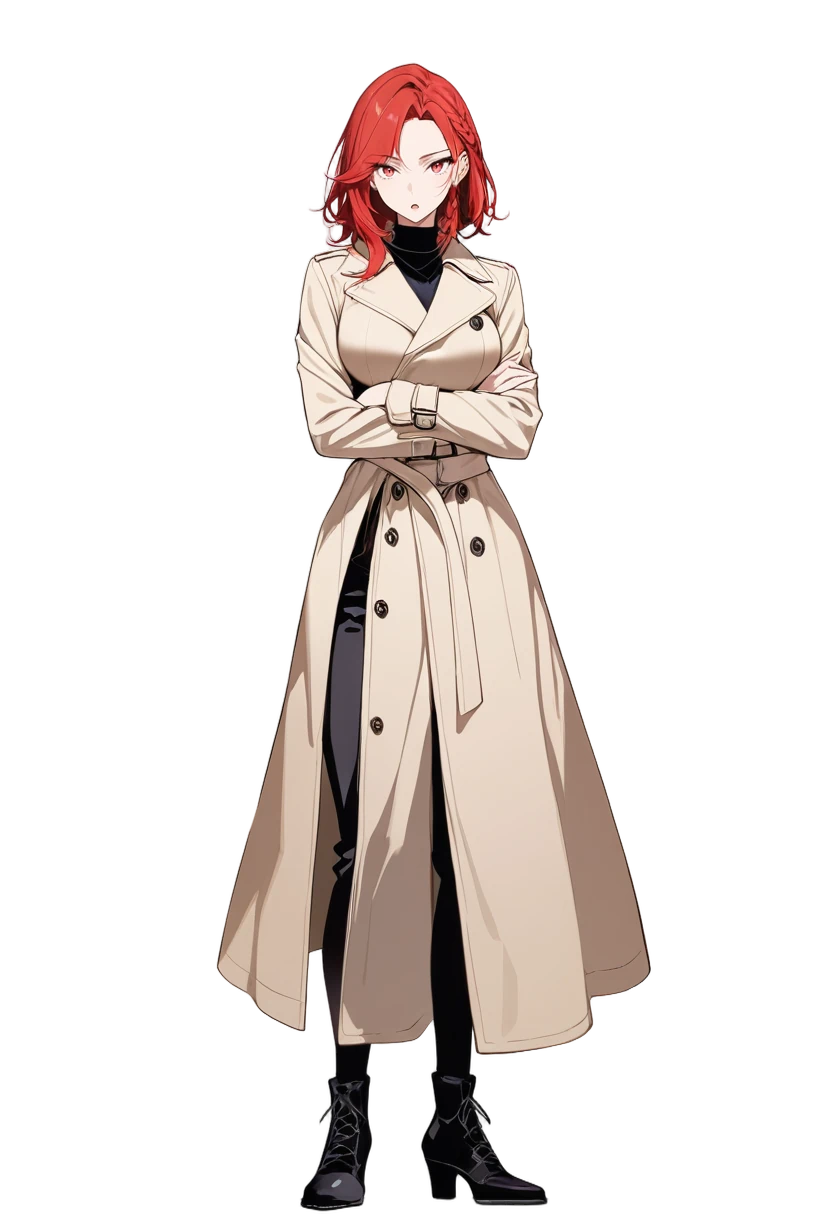
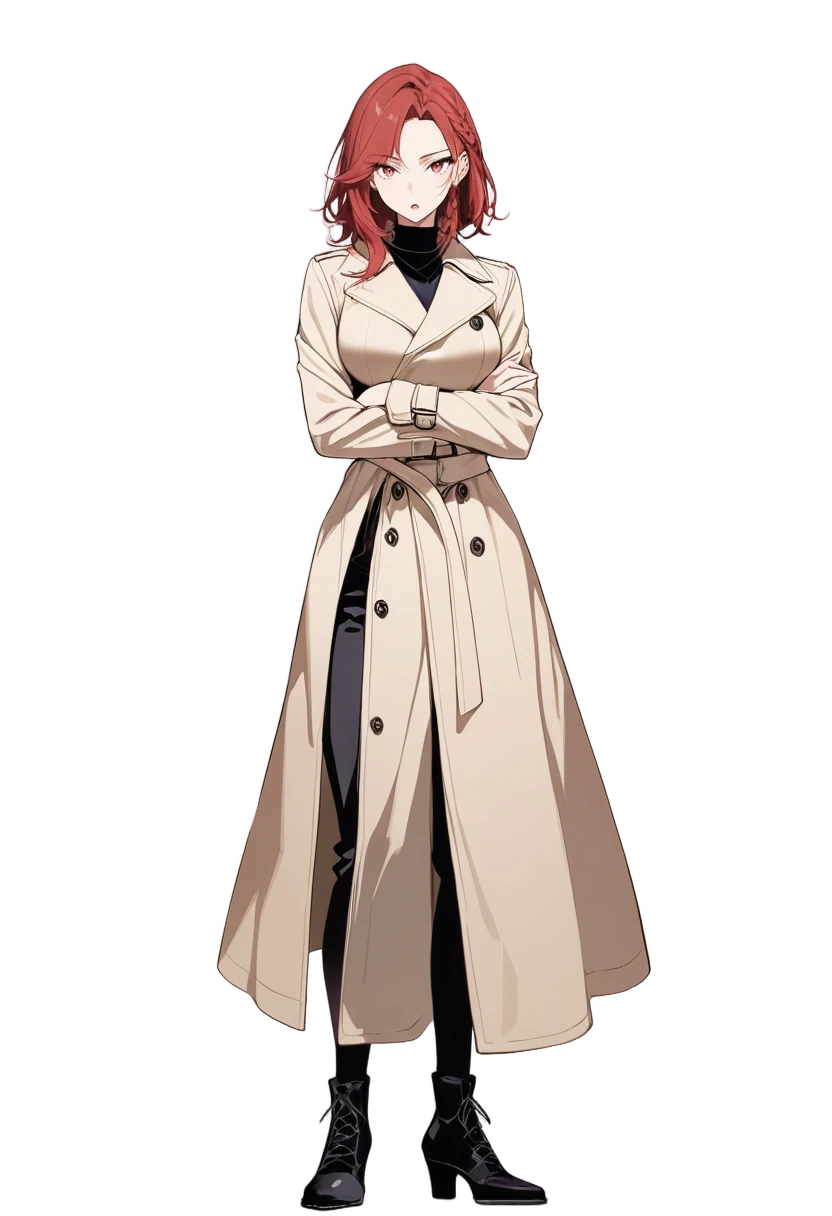
顏緋立繪調色：紅色降飽和度、調暗，和其他四位放在一起不那麼搶眼
五個人放在一起時（封面、校園地圖），顏緋的紅明顯比其他人鮮豔。Roger 比較五個等級後選定：
紅色系像素飽和度 ×0.82、亮度 −12%。data/characters/fei/ 底下 18 張都已調過；
art/recolor.py 的 save_portrait 讓之後輸出的顏緋立繪自動調色（outfits.py、recut.py 改用它）。
.gitignore 的配音環境改成 .venv-tts*（qwen-tts 和 faster-qwen3-tts 要的 transformers 版本不同，分開裝）。

Changed region(s): [[0.4062, 0.0312, 0.5938, 0.2188]]

diff --git a/art/recolor.py b/art/recolor.py
@@ -1,0 +1,76 @@
+"""調整角色立繪的顏色（目前只有顏緋）。
+
+10/23 Roger 看封面排版時發現：五個人放在一起，顏緋的紅特別鮮豔，跟其他人的色調不搭（單獨看立繪時看不出來）。
+量過頭髮的飽和度：顏緋 0.86，其他四人 0.25–0.63。只降飽和度紅色會偏粉紅（像鮭魚色），所以飽和度和亮度一起降，
+變成偏深的緋紅。比較過五個等級（art/bakeoff/cover/fei_color/），Roger 選 E：飽和度 ×0.82、亮度 −12%。
+
+只動紅色系、而且夠鮮豔的像素：色相在 355° 前後 15° 內全套用，到 35° 漸弱為 0；飽和度 0.35 以下不動、0.55 以上全套用。
+膚色、腮紅、白袍、私服的米色風衣都不受影響。data/characters/fei/ 底下 18 張（6 個表情 × 基本、私服、晚禮服）都已套用。
+之後用 outfits.py、recut.py 匯出的立繪會經過 save_portrait 自動調色；用其他方式放進 data/ 的，要再跑一次這支。
+調過的檔案在 EXIF 的 ImageDescription 記一筆，重跑會跳過，不會調兩次。
+原圖在 git（commit 9ddbc82 以前）。
+
+    .venv-gpu\\Scripts\\python.exe art\\recolor.py fei
+"""
+import argparse
+import sys
+from pathlib import Path
+
+import cv2
+import numpy as np
+from PIL import Image
+
+DATA = Path(__file__).resolve().parent.parent / "data" / "characters"
+# {角色: (中心色相, 飽和度倍率, 亮度降低比例)}
+RECOLOR = {"fei": (355, 0.82, 0.12)}
+HUE_FULL, HUE_FADE = 15, 20  # 中心色相前後幾度全套用、再往外幾度漸弱
+SAT_FROM, SAT_FULL = 0.35, 0.55
+MARK = "nmle-recolor"
+EXIF_DESCRIPTION = 0x010E
+
+
+def recolor(image, hue, factor, vdrop):
+    a = np.asarray(image.convert("RGBA")).astype(np.float32) / 255
+    hsv = cv2.cvtColor(a[..., :3], cv2.COLOR_RGB2HSV)  # float 輸入：H 0–360，S、V 0–1
+    h, s, v = hsv[..., 0], hsv[..., 1], hsv[..., 2]
+    dist = np.minimum(np.abs(h - hue), 360 - np.abs(h - hue))
+    w = np.clip(1 - (dist - HUE_FULL) / HUE_FADE, 0, 1) * np.clip((s - SAT_FROM) / (SAT_FULL - SAT_FROM), 0, 1)
+    hsv[..., 1] = s * (1 - w * (1 - factor))
+    hsv[..., 2] = v * (1 - w * vdrop)
+    a[..., :3] = cv2.cvtColor(hsv, cv2.COLOR_HSV2RGB)
+    return Image.fromarray((np.clip(a, 0, 1) * 255).round().astype(np.uint8), "RGBA")
+
+
+def save_portrait(image, path, char, adjusted=False):
+    """存角色立繪（webp，同 outfits.py 一直以來的存法）。outfits.py、recut.py 都經過這裡，新匯出的圖會自動調色。
+
+    要調色的角色先調色，EXIF 記一筆；adjusted=True 表示來源已經是調過的圖（例如只重畫臉部、其他像素沿用
+    data/ 裡的檔案），只寫記號、不再調，不然會調兩次。
+    """
+    if char not in RECOLOR:
+        image.save(path, "WEBP", quality=90, method=6)
+        return
+    hue, factor, vdrop = RECOLOR[char]
+    if not adjusted:
+        image = recolor(image, hue, factor, vdrop)
+    exif = Image.Exif()
+    exif[EXIF_DESCRIPTION] = f"{MARK} hue={hue} s*{factor} v-{vdrop}"
+    image.save(path, "WEBP", quality=90, method=6, exif=exif)
+
+
+def main():
+    sys.stdout.reconfigure(encoding="utf-8")
+    ap = argparse.ArgumentParser()
+    ap.add_argument("char", choices=sorted(RECOLOR))
+    args = ap.parse_args()
+    for path in sorted((DATA / args.char).rglob("*.webp")):
+        image = Image.open(path)
+        if str(image.getexif().get(EXIF_DESCRIPTION, "")).startswith(MARK):
+            print(f"跳過（已經調過）：{path.relative_to(DATA)}")
+            continue
+        save_portrait(image.convert("RGBA"), path, args.char)
+        print(f"調好：{path.relative_to(DATA)}")
+
+
+if __name__ == "__main__":
+    main()

diff --git a/art/outfits.py b/art/outfits.py
@@ -382,6 +382,7 @@ def cmd_export(key, args):
     from rembg import new_session, remove
     sys.path.insert(0, str(Path(__file__).resolve().parent))
     from defringe import defringe
+    from recolor import save_portrait
 
     folder = OUT / key
     base = base_image(key)
@@ -394,7 +395,7 @@ def cmd_export(key, args):
         rgba = src.copy()
         rgba.putalpha(alpha)
         rgba = defringe(rgba)  # 要在還有原本背景色的時候做
-        rgba.save(export / f"{name}.webp", "WEBP", quality=90, method=6)
+        save_portrait(rgba, export / f"{name}.webp", o["char"])  # 顏緋會自動調色（art/recolor.py）
         print(name, (export / f"{name}.webp").stat().st_size // 1024, "KB", flush=True)
     # 放在深色底上檢查去背邊緣（網站深色模式的背景色）
     paths = [export / f"{name}.webp" for name in o["picks"]]
@@ -415,7 +416,9 @@ def export_variant(key, o):
         redrawn.putalpha(original.getchannel("A"))
         out = Image.composite(redrawn, original, mask)
         path = DATA / o["char"] / f"{name}.webp"
-        out.save(path, "WEBP", quality=90, method=6)
+        sys.path.insert(0, str(Path(__file__).resolve().parent))
+        from recolor import save_portrait
+        save_portrait(out, path, o["char"], adjusted=True)  # 底圖是 data/ 裡已經調過色的檔案，不再調一次
         print(name, path.stat().st_size // 1024, "KB", flush=True)
     print(f"{key}：輸出在 {DATA / o['char']}", flush=True)
 

diff --git a/art/recut.py b/art/recut.py
@@ -18,6 +18,7 @@ from pathlib import Path
 from PIL import Image
 
 from defringe import defringe, whitish_edges
+from recolor import save_portrait
 
 ROOT = Path(__file__).resolve().parent.parent
 
@@ -39,7 +40,7 @@ def main(char, base_seed, picks, mask_path=None):
         rgba = Image.open(path).convert('RGB')
         rgba.putalpha(alpha)
         fixed = defringe(rgba)
-        fixed.save(out_dir / f'{name}.webp', 'WEBP', quality=90, method=6)
+        save_portrait(fixed, out_dir / f'{name}.webp', char)  # 顏緋會自動調色（art/recolor.py）
         print(f'{name}：白邊像素 {whitish_edges(rgba)} → {whitish_edges(fixed)}')
 
 

diff --git a/characters.md b/characters.md
@@ -360,6 +360,8 @@ red hair, medium hair, side braid, red eyes, tsurime, red scrubs, scrub top, scr
 
 **專屬表情**：`pout` → `pout, blush, looking away, crossed arms`
 
+**立繪調色**（10/23）：五個人放在一起時（封面、校園地圖），她的紅明顯比其他人鮮豔（頭髮飽和度 0.86，其他四人 0.25–0.63），單獨看立繪時看不出來。Roger 比較過五個等級（`art/bakeoff/cover/fei_color/`）後選定：紅色系像素的飽和度 ×0.82、亮度 −12%，變成偏深的緋紅；只降飽和度會偏粉紅，所以亮度一起降。`data/characters/fei/` 底下 18 張都已用 `art/recolor.py fei` 調過，**之後新增的顏緋立繪也要跑一次**（調過的檔案會跳過）。調色前的原圖在 git（commit 9ddbc82）。
+
 **好感度劇情大綱**
 - 0 初識：她當著大家的面說你的病理「爛到可以切片研究」。
 - 1 熟識：你發現桌上那份整理得很完整的考古題，署名被她撕掉了。
